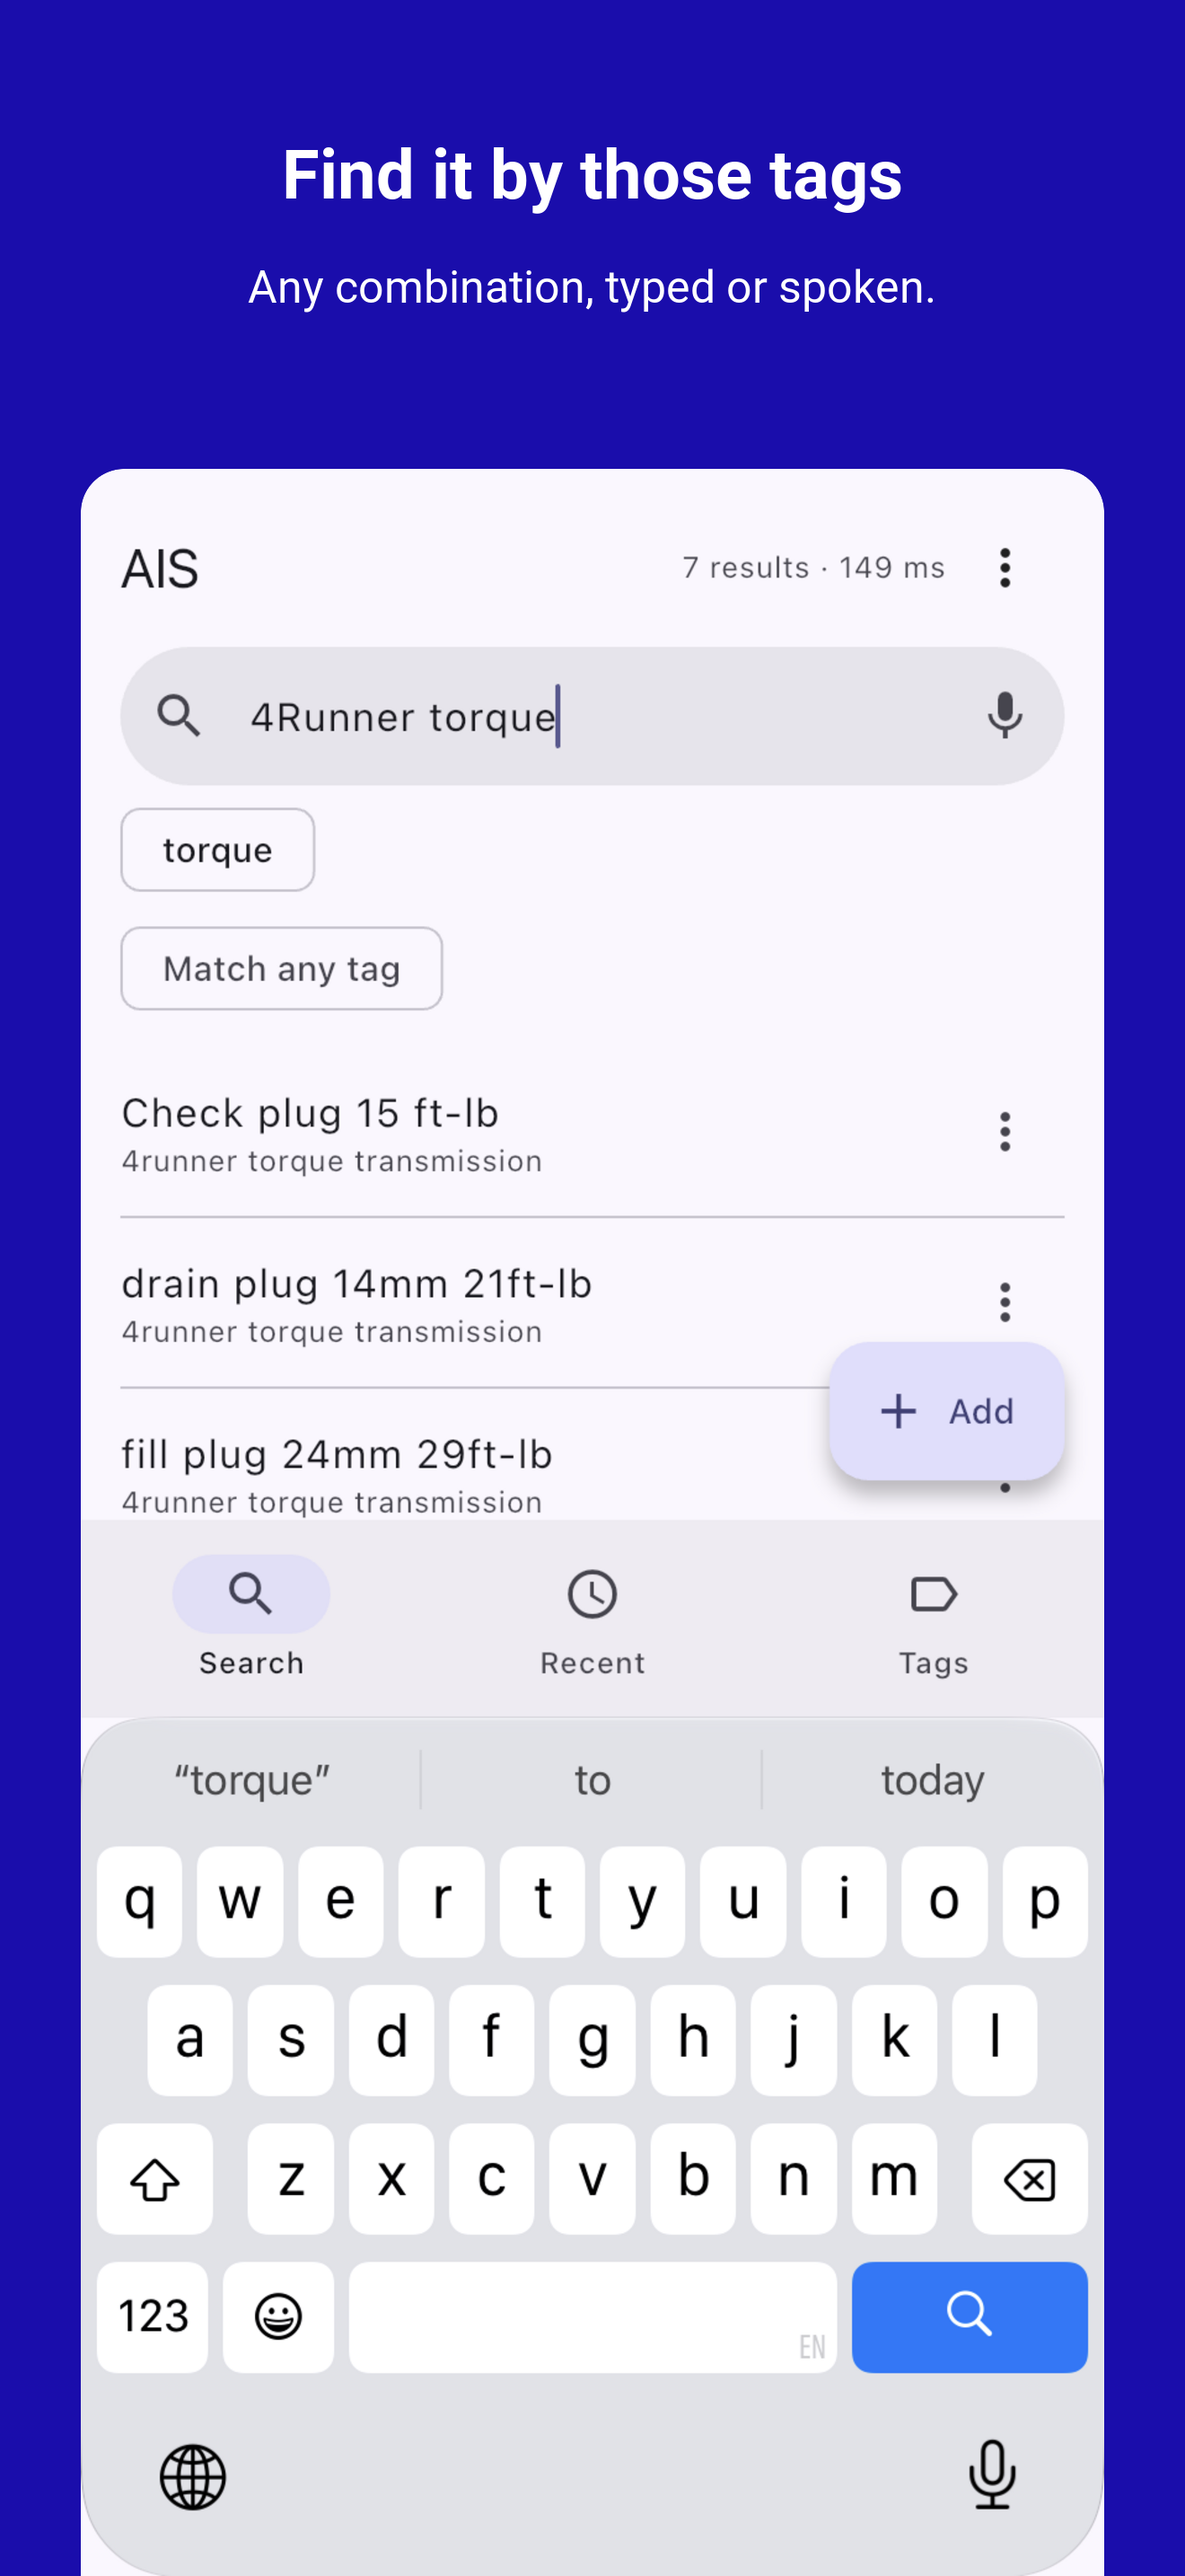
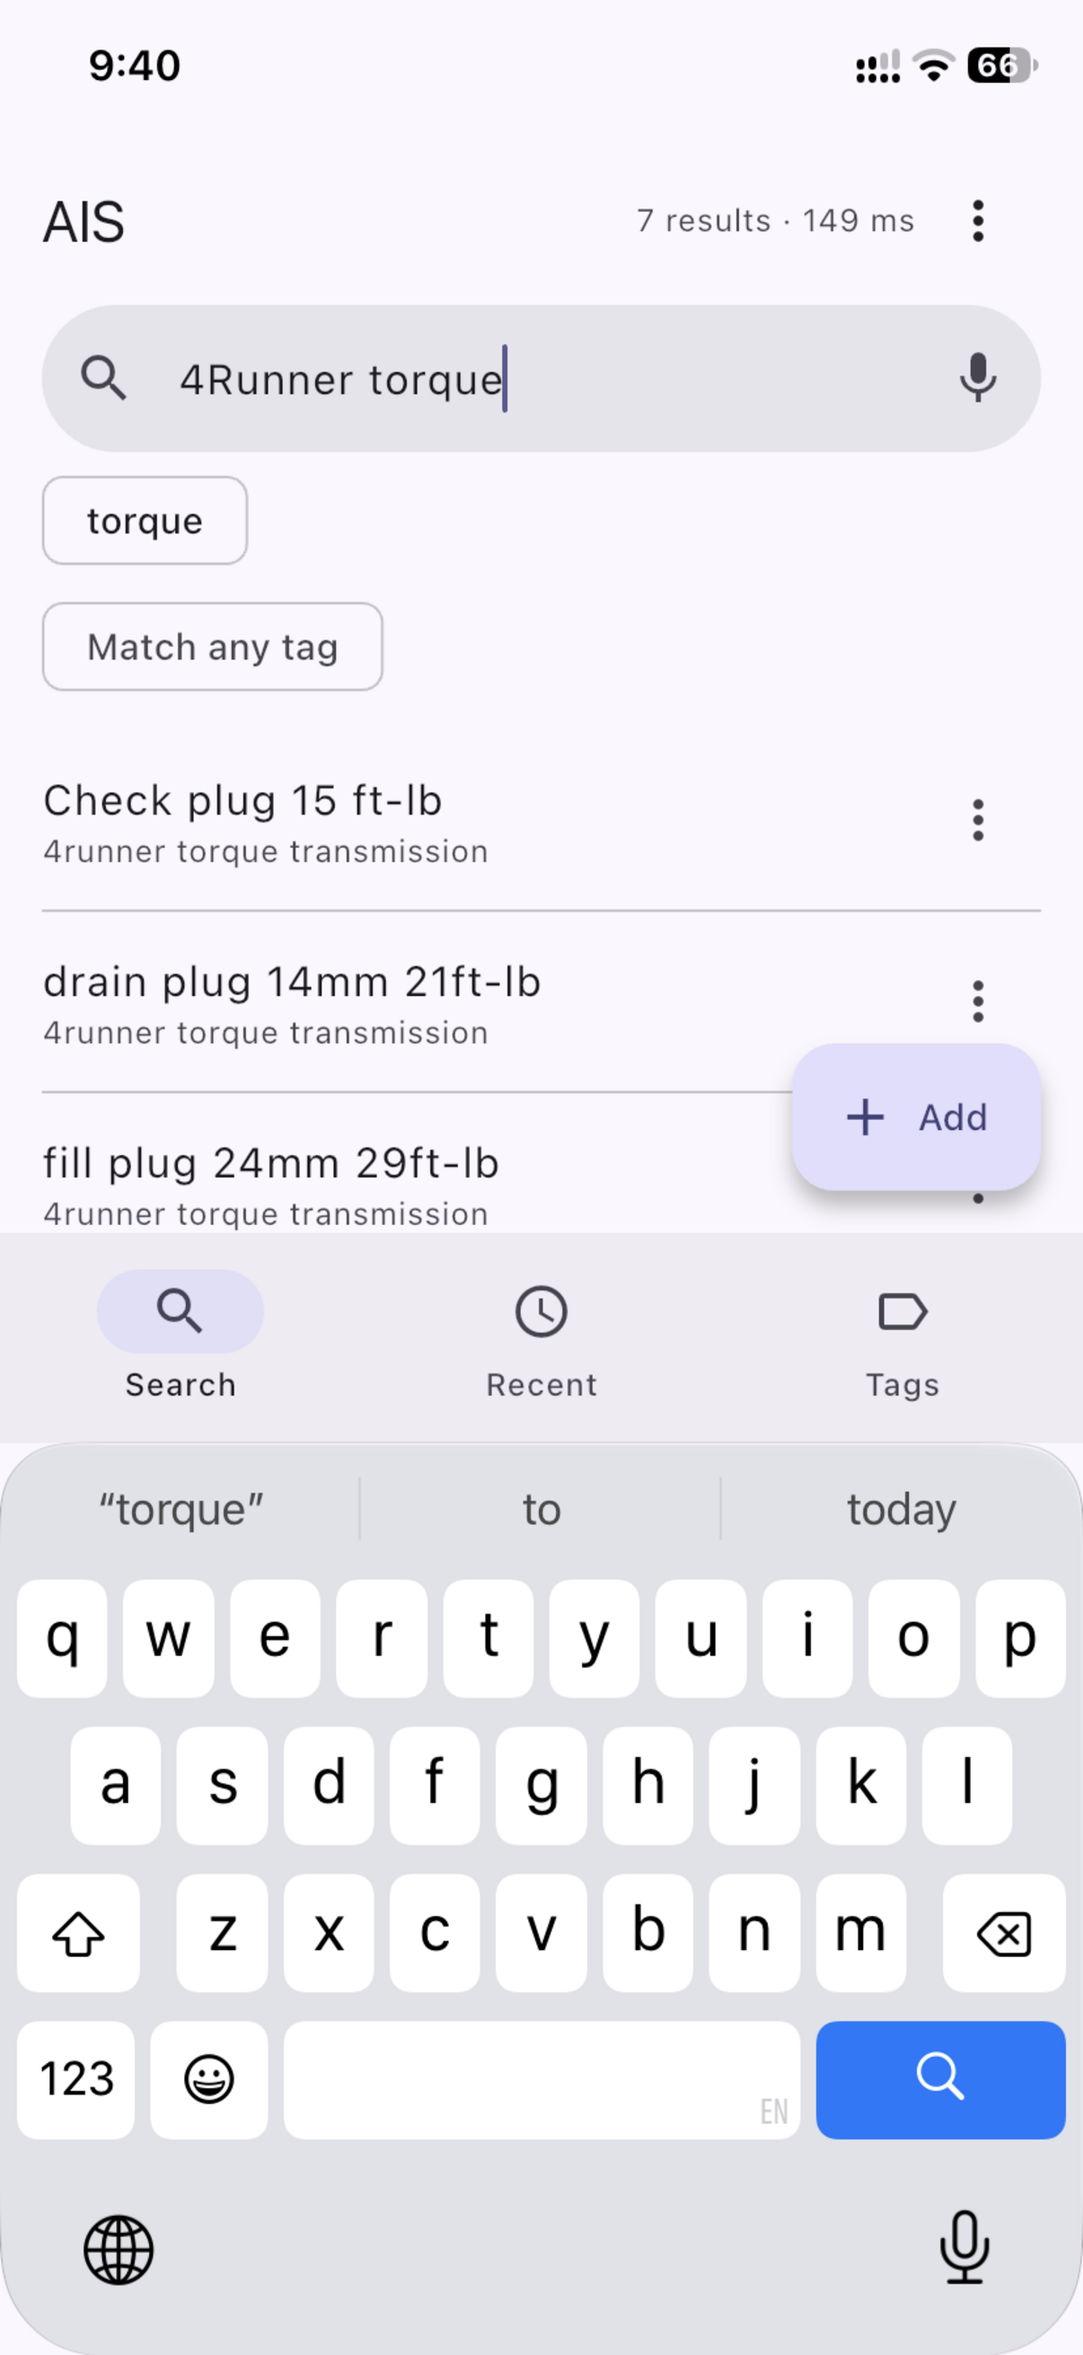
app: speech ends on a pause and brings the Search tab forward; App Store screenshots plain at 1206x2622, encrypt retaken

diff --git a/app/flutter/lib/main.dart b/app/flutter/lib/main.dart
@@ -652,6 +652,14 @@ class _RecallPageState extends State<RecallPage> with WidgetsBindingObserver {
   }
 
   Future<void> _listen() async {
+    // A tap while listening ends the session. iOS keeps one open until it is
+    // stopped and reports the transcript since it began, so without a stop the
+    // next phrase lands after the earlier ones, even in a field cleared between.
+    if (_speech.isListening) {
+      await _speech.stop();
+      if (mounted) setState(() {});
+      return;
+    }
     // First tap: init the recognizer, which triggers the runtime mic-permission
     // prompt on Android/iOS. _voice stays false on desktop or if denied.
     if (!_voice) {
@@ -659,7 +667,9 @@ class _RecallPageState extends State<RecallPage> with WidgetsBindingObserver {
         // onError carries the case that matters most: a device with no OFFLINE
         // language model refuses an on-device session rather than falling back to
         // the cloud, and with no listener that arrives as silence.
-        _voice = await _speech.initialize(onError: (e) {
+        _voice = await _speech.initialize(
+            onStatus: (_) { if (mounted) setState(() {}); }, // repaint the mic
+            onError: (e) {
           if (!mounted) return;
           final noModel = e.errorMsg.contains('language') ||
               e.errorMsg.contains('no_match') ||
@@ -682,13 +692,19 @@ class _RecallPageState extends State<RecallPage> with WidgetsBindingObserver {
     // ON-DEVICE ONLY. The package default is onDevice: false, which streams the
     // audio to the platform's cloud recogniser -- Google's, on Android. A device
     // with no local recogniser gets no dictation and is told why.
+    // A pause of 3 s, or 30 s in all, ends the session, so each tap transcribes
+    // one phrase and the final result (and the search) arrives without a stop.
     await _speech.listen(
       onResult: (r) {
-        _q.text = r.recognizedWords;
-        if (r.finalResult) _recall();
+        _q.text = r.recognizedWords;  // programmatic: onChanged does not fire
+        if (r.finalResult) _recallLive(); // and bring the Search tab forward
       },
-      listenOptions: SpeechListenOptions(onDevice: true),
+      listenOptions: SpeechListenOptions(
+          onDevice: true,
+          pauseFor: const Duration(seconds: 3),
+          listenFor: const Duration(seconds: 30)),
     );
+    if (mounted) setState(() {});
   }
 
   bool _isUrl(String v) => v.startsWith('http://') || v.startsWith('https://');
@@ -2197,8 +2213,15 @@ class _RecallPageState extends State<RecallPage> with WidgetsBindingObserver {
                               suffixIcon:
                                   (_voice || Platform.isAndroid || Platform.isIOS)
                                       ? IconButton(
-                                          icon: const Icon(Icons.mic),
-                                          tooltip: 'Voice search',
+                                          icon: Icon(_speech.isListening
+                                              ? Icons.mic
+                                              : Icons.mic_none),
+                                          color: _speech.isListening
+                                              ? cs.primary
+                                              : null,
+                                          tooltip: _speech.isListening
+                                              ? 'Stop listening'
+                                              : 'Voice search',
                                           onPressed: _listen)
                                       : null,
                             ),

diff --git a/doc/dev/IOS_TODO.md b/doc/dev/IOS_TODO.md
@@ -54,11 +54,12 @@ Steps 2 and 3 need the account holder's own sign-in (IOS_RELEASE.md step 1).
 - [x] First build uploaded by CI from the v0.3.30 tag (0.3.30, build 526,
       2026-10-08). altool warned: deployment target iOS 13.0; from April 2027
       uploads need 15.0 or later.
-- [x] Screenshots: `scripts/appstore-shots.sh` makes the four 6.9-inch
-      frames (1320x2868) in `fastlane/metadata/ios/en-US/images/phoneScreenshots/`
+- [x] Screenshots: `scripts/appstore-shots.sh` resizes the four captures
+      to 1206x2622, unframed, for the "Dynamic Island (medium)" slot (the only
+      iPhone slot App Store Connect offers), into `fastlane/metadata/ios/en-US/images/phoneScreenshots/`
       from `screenshots/iphone_*.png`, Marina's captures on the 0.3.33 build
-      (2026-10-08): timeline, add, search, encrypt. The encrypt capture
-      predates the eye on the Repeat field; retake it on the next build.
+      (2026-10-08): timeline, add, search; encrypt retaken 2026-10-09 with
+      the eye on both passphrase fields.
 - [ ] 1.0: rename the version to the build's, upload the four screenshots,
       attach the build, Submit for Review.
 - [x] Build 526 Ready to Submit in TestFlight (2026-10-08), auto-distributed
@@ -138,6 +139,18 @@ Steps 2 and 3 need the account holder's own sign-in (IOS_RELEASE.md step 1).
       access" alert, which can use up the join's 10 s; the Join dialog comes
       back once with a note to tap Sync again. Confirm it does, and that the
       second attempt connects.
+- [ ] Speech (0.3.34, 2026-10-09): each phrase arrived appended to the earlier
+      ones, even with the field cleared between ("1 3", then "Movies", gave
+      "1 3 Movies"). iOS keeps one recognition session open until it is
+      stopped and reports the transcript since it began; the app never
+      stopped it. Fixed: a 3 s pause or 30 s in all ends the session, a tap on
+      the live mic stops it, and the icon shows which state it is in.
+      Unverified until the next TestFlight build.
+- [ ] Speech, both platforms (Android, 2026-10-09): the phrase landed in the
+      field and the search ran, but the body stayed on the timeline, so the
+      Recent list showed unfiltered. The speech path called `_recall()`, which
+      fills the results without switching the view; typing goes through
+      `_recallLive()`. Fixed: speech goes through `_recallLive()` too.
 
 ## 9. App Store
 
